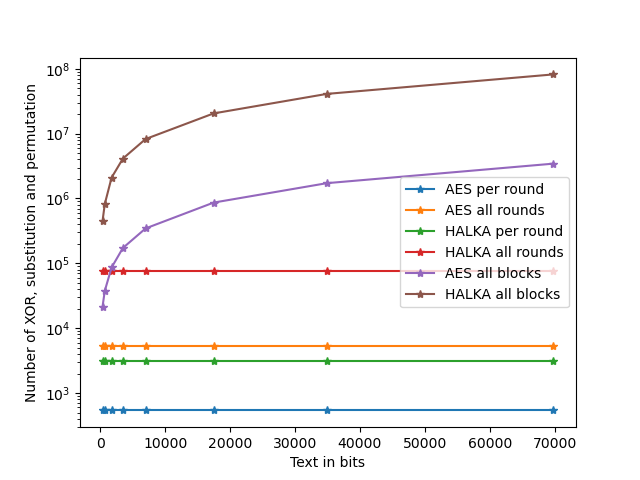
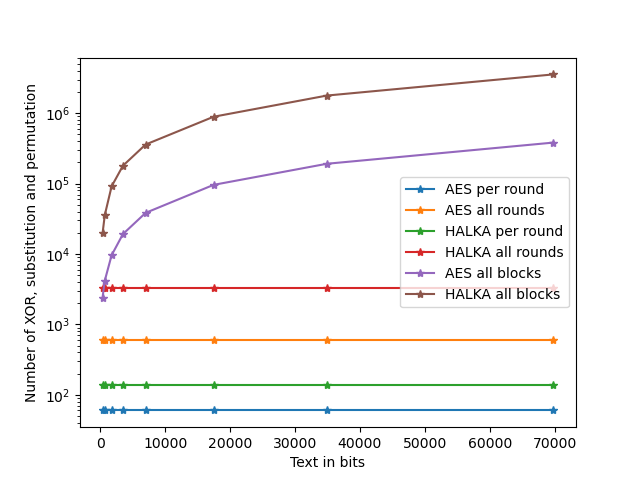
plots

diff --git a/halka.py b/halka.py
@@ -118,8 +118,6 @@ class HALKA:
         self.n_rounds = 24 
         # for halka, length of self._key_matrices should be 25, each subarr is 64 bits
         self._key_matrices = self._expand_key(master_key)
-        self.operations_one_round = {'sub':0, 'perm':0, 'xor':0}
-        self.operations_per_round = {'sub':0, 'perm':0, 'xor':0}
         self.operations_all_rounds = {'sub':0, 'perm':0, 'xor':0}
 
     def _expand_key(self, master_key):  
@@ -164,8 +162,12 @@ class HALKA:
         plain_state = b2matrix(plaintext, n=8)
         plain_state,_ = add_round_key(plain_state, self._key_matrices[0])
 
-        operations_per_round = {'sub':0, 'perm':0, 'xor':0}
         for i in range(1, self.n_rounds):
+            if i ==1:
+                operations_per_round = {'sub':0, 'perm':0, 'xor':0}
+            else:
+                operations_per_round = None
+
             # S block -> XOR with eight 8-bit S-boxes
             plain_state, operations_per_round = sub_bytes(plain_state, operations_per_round)
             plain_state, operations_per_round = shift_rows(plain_state, operations_per_round) # getting back 8x8
@@ -173,9 +175,6 @@ class HALKA:
 
             if i ==1:
                 self.operations_one_round = operations_per_round
-
-        self.operations_per_round = operations_per_round
-        # self.operations_all_rounds = operations_per_round
 
         for k in self.operations_one_round.keys():
             self.operations_all_rounds[k]+=self.operations_one_round[k]*self.n_rounds

diff --git a/aes.py b/aes.py
@@ -133,8 +133,7 @@ class AES:
         assert len(master_key) in AES.rounds_by_key_size
         self.n_rounds = AES.rounds_by_key_size[len(master_key)]
         self._key_matrices = self._expand_key(master_key)
-        self.operations_one_round = {'sub':0, 'perm':0, 'xor':0}
-        self.operations_per_round = {'sub':0, 'perm':0, 'xor':0}
+
         self.operations_all_rounds = {'sub':0, 'perm':0, 'xor':0}
 
     def _expand_key(self, master_key):
@@ -181,9 +180,12 @@ class AES:
 
         _ =add_round_key(plain_state, self._key_matrices[0])
 
-        operations_per_round = {'sub':0, 'perm':0, 'xor':0}
-
         for i in range(1, self.n_rounds):
+            if i==1:
+                operations_per_round = {'sub':0, 'perm':0, 'xor':0}
+            else:
+                operations_per_round = None
+
             operations_per_round=sub_bytes(plain_state, operations_per_round)
             operations_per_round=shift_rows(plain_state, operations_per_round)
             operations_per_round=mix_columns(plain_state, operations_per_round)
@@ -192,8 +194,6 @@ class AES:
             if i ==1:
                 self.operations_one_round = operations_per_round
 
-        self.operations_per_round = operations_per_round
-        # self.operations_all_rounds = operations_per_round
         for k in self.operations_one_round.keys():
             self.operations_all_rounds[k]+=self.operations_one_round[k]*self.n_rounds
 
